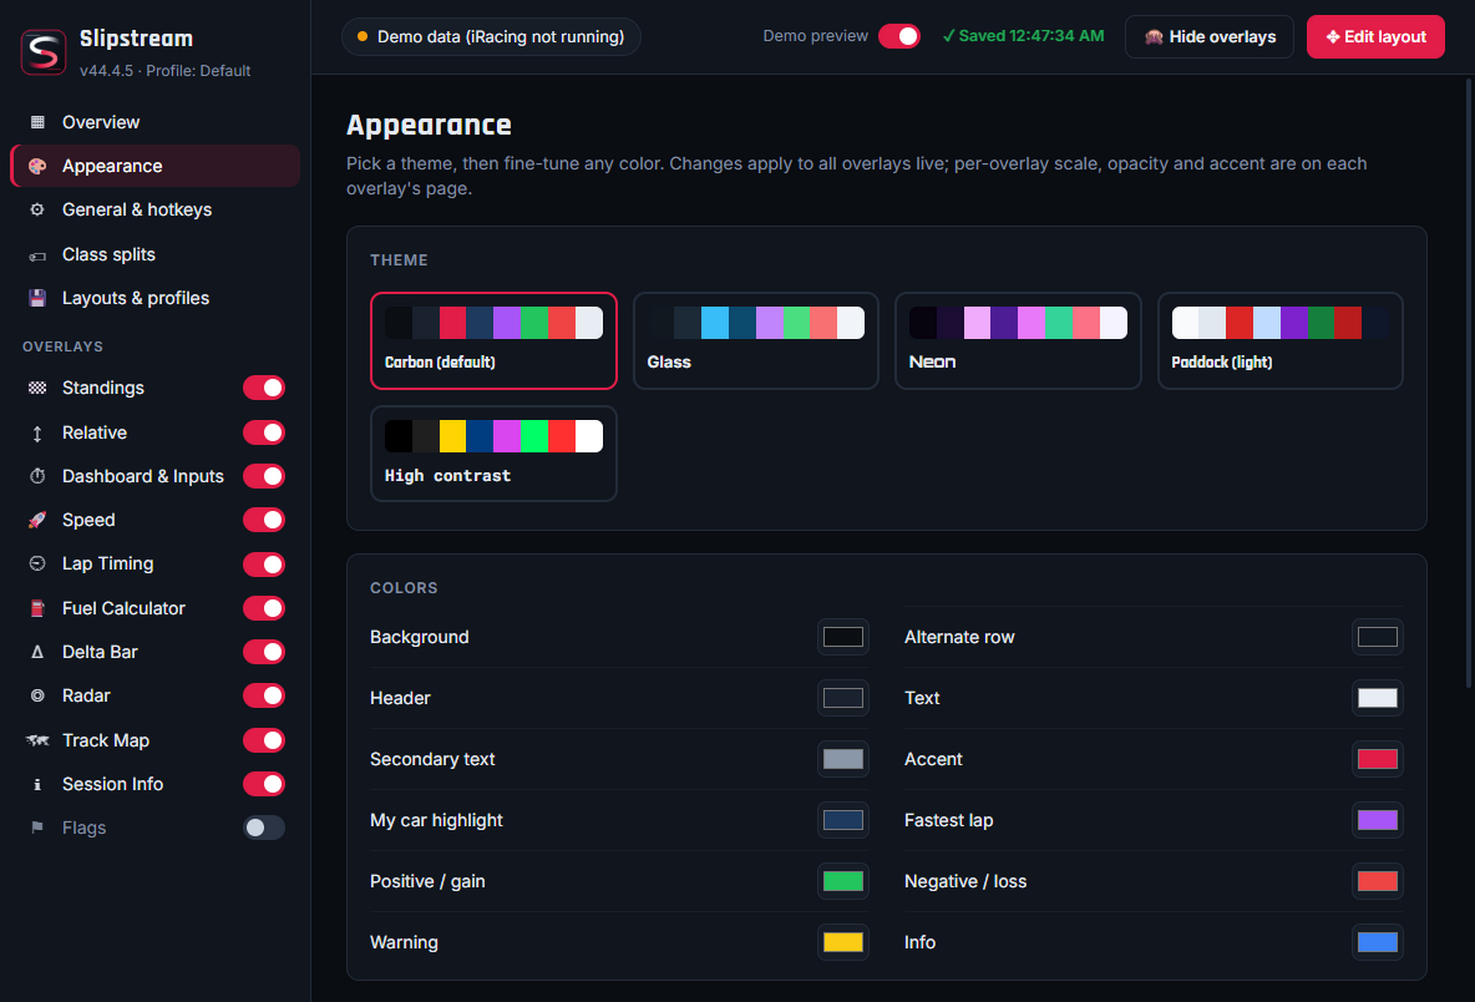
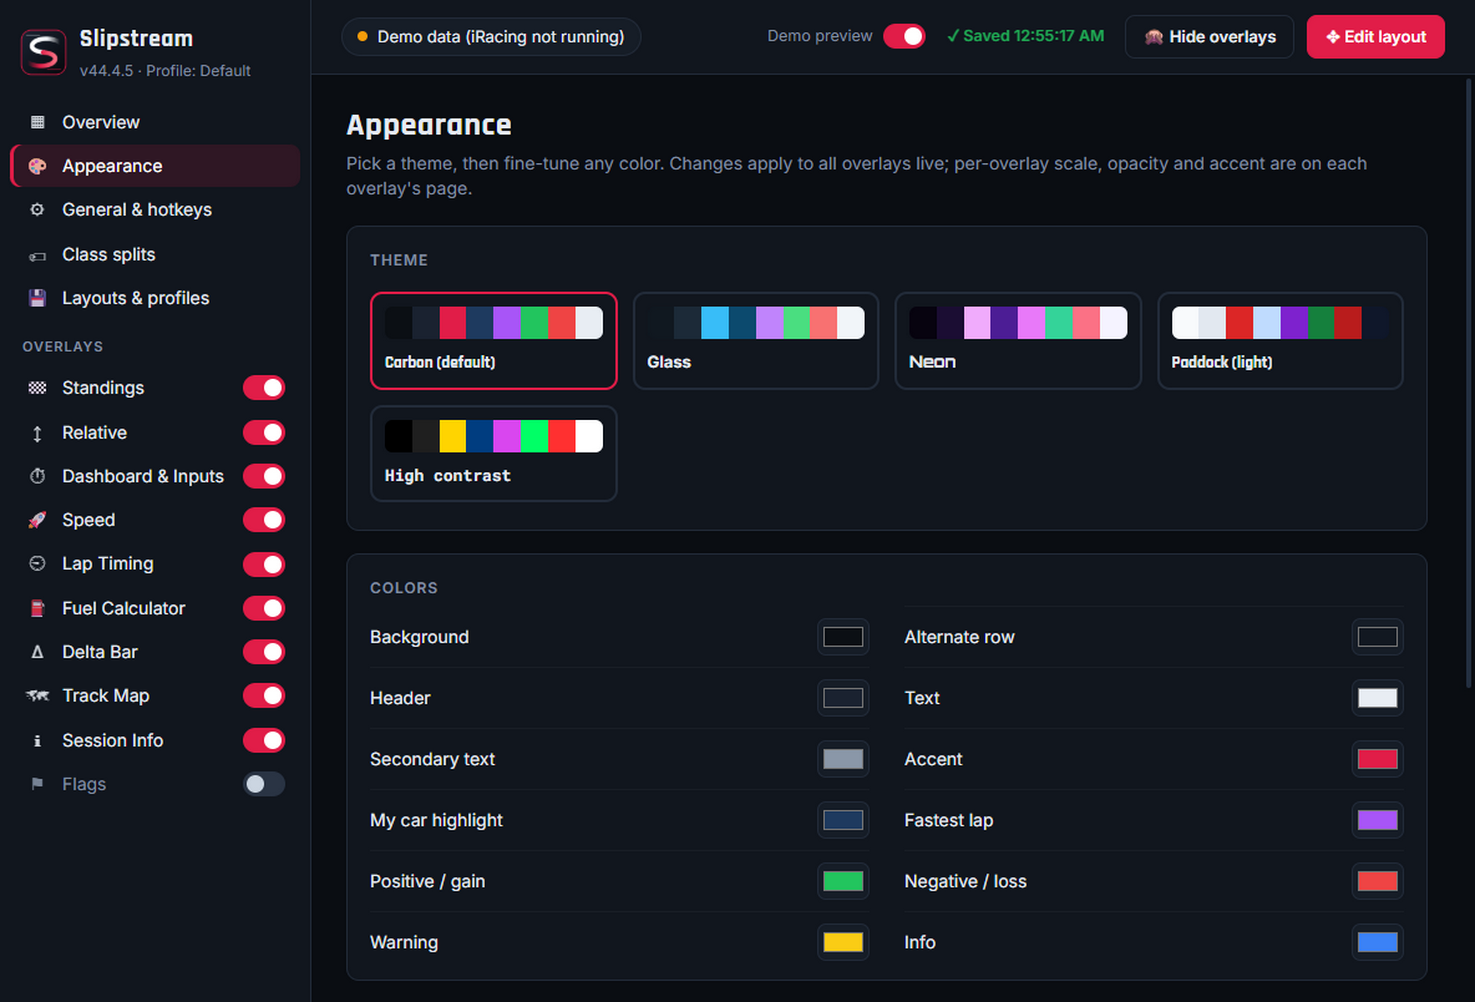
Remove the radar overlay; keep the Delta bar and first-run changes
iRacing exposes no lateral position for other cars, so a radar can only place
cars sideways from the spotter flag. Dropped it from this branch.

Changed region(s): [[0.0, 0.6806, 0.1247, 0.8353], [0.499, 0.0309, 0.7173, 0.0619], [0.1559, 0.7735, 0.2183, 0.8353]]

diff --git a/src/shared/registry.js b/src/shared/registry.js
@@ -227,25 +227,6 @@
       ],
     },
     {
-      id: 'spotter', name: 'Radar', icon: '◎',
-      description: 'Cars around you from above: exact distance ahead / behind, the side from the iRacing spotter, how much a car alongside overlaps you.',
-      bounds: { x: 880, y: 420, width: 220, height: 220 },
-      needs: ['radar'],
-      defaults: { bgOpacity: 0, showHeader: false, fps: 30 },
-      schema: [
-        { key: 'range', label: 'View radius (m)', type: 'range', min: 8, max: 40, step: 1, default: 20 },
-        { key: 'guides', label: 'Rings and crosshair', type: 'bool', default: true },
-        { key: 'showOverlap', label: 'Show overlap in % next to a car alongside', type: 'bool', default: true },
-        { key: 'autoHide', label: 'Only show when a car is near', type: 'bool', default: true },
-        { key: 'closeAt', label: 'Car turns "close" within (m)', type: 'range', min: 2, max: 20, step: 1, default: 8 },
-        { key: 'meColor', label: 'My car', type: 'color', default: '#ef4444' },
-        { key: 'closeColor', label: 'Close car', type: 'color', default: '#facc15' },
-        { key: 'farColor', label: 'Other cars', type: 'color', default: '#f8fafc' },
-        { key: 'warnColor', label: 'Side glow: one car alongside', type: 'color', default: '#facc15' },
-        { key: 'dangerColor', label: 'Side glow: two on that side / three wide', type: 'color', default: '#f97316' },
-      ],
-    },
-    {
       id: 'trackmap', name: 'Track Map', icon: '🗺',
       description: 'Auto-learned track map with every car, class colors and pit indicators.',
       bounds: { x: 40, y: 660, width: 320, height: 320 },

diff --git a/scripts/screenshots.js b/scripts/screenshots.js
@@ -130,16 +130,6 @@ app.whenReady().then(async () => {
     fs.writeFileSync(path.join(OUT, id + '.png'), buf);
   }
 
-  // Radar close-up: three wide (odd car numbers read as left in the demo spotter), a small pack behind
-  S.mock.pinned = [{ idx: 11, meters: 0.9 }, { idx: 12, meters: -0.7 }, { idx: 14, meters: -6.5 }, { idx: 16, meters: -7 },
-    { idx: 18, meters: -13 }, { idx: 13, meters: 12 }];
-  await sleep(2500);
-  {
-    const img = await capture(S.overlayWins.get('spotter').win);
-    const sb = cfg.overlay('spotter').bounds;
-    fs.writeFileSync(path.join(OUT, 'spotter.png'), await compose(sb.width + pad * 2, sb.height + pad * 2, [{ url: img.url, x: pad, y: pad, w: sb.width, h: sb.height }], { crop: true }));
-  }
-
   // Relative comparison: a mixed GT3 / LMP2 pack (grouped by class), then the same pack as a one-class race
   const relShot = async (name) => {
     await sleep(2500);

diff --git a/src/renderer/overlay.html b/src/renderer/overlay.html
@@ -27,7 +27,6 @@
   <script src="widgets/laptiming.js"></script>
   <script src="widgets/fuel.js"></script>
   <script src="widgets/delta.js"></script>
-  <script src="widgets/spotter.js"></script>
   <script src="widgets/trackmap.js"></script>
   <script src="widgets/session.js"></script>
   <script src="widgets/flags.js"></script>

diff --git a/README.md b/README.md
@@ -45,9 +45,6 @@ Standings, relative, dashboard & inputs, lap timing, fuel, delta, an auto-learne
     <td align="center"><img src="docs/screenshots/delta.png" width="400" alt="Delta bar"><br><sub><b>Delta bar</b></sub></td>
     <td align="center"><img src="docs/screenshots/speed.png" width="400" alt="Speed"><br><sub><b>Speed</b></sub></td>
   </tr>
-  <tr>
-    <td align="center" colspan="2"><img src="docs/screenshots/spotter.png" width="240" alt="Radar: a car alongside on the left, overlapping 61%"><br><sub><b>Radar</b>: a car alongside on the left (61% overlap), one close behind</sub></td>
-  </tr>
 </table>
 </div>
 
@@ -152,7 +149,6 @@ and show again when you drive.
 | **Lap Timing** | Live sector times (green = personal best, purple = class best), last/best/optimal lap, and a lap log with sectors, delta, fuel used, and off-track/pit markers |
 | **Fuel Calculator** | Average, last and max fuel per lap (green-flag laps only), laps left, fuel to finish with a safety margin, amount to add, stops needed |
 | **Delta Bar** | Live delta to your best, optimal, session best or last lap, predicted lap time, and gap bars to the cars directly ahead and behind that turn green while you gain and red while you lose. In races these are the class cars physically ahead and behind you on track, so after a spin they update at once instead of waiting for the next timing line |
-| **Radar** | Cars around you from above. Distance ahead / behind is exact; the side comes from the iRacing spotter (iRacing doesn't share where other cars are across the track), with a yellow glow on the side a car is alongside, orange when you're three wide, and the overlap in %. A car keeps its side for a few seconds after it pulls ahead or drops back. Hides when nobody is near |
 | **Track Map** | **Learned automatically** from your first clean lap, then saved for that track. Shows every car in class colors, cars in the pits and the start/finish line. **Off by default**; turn it on in settings |
 | **Session Info** | Session, time or laps left, lap, position, incidents vs limit, SOF, temperatures, track wetness, local and sim time. **Off by default**; turn it on in settings |
 | **Flags** | A big flag indicator: checkered, red, black, meatball, caution, debris, yellow, blue, white, one-to-green and green. **Off by default**; turn it on in settings |
